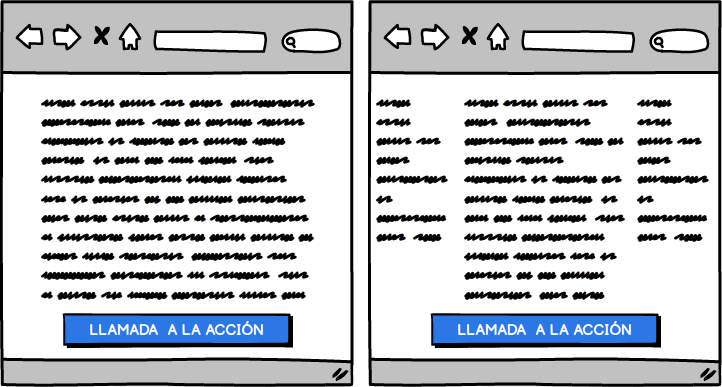
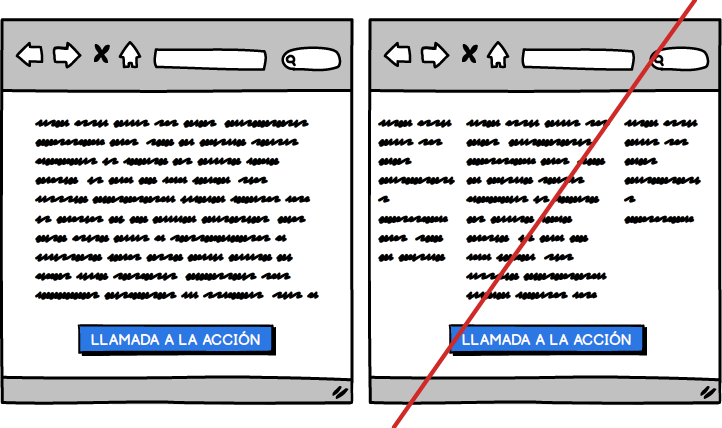
CONTENIDOS: nuevo post y refactorización de ilustraciones

diff --git a/index.html b/index.html
@@ -1,6 +1,6 @@
 ---
 layout: page
-description: "Dirección de proyectos digitales y consultoría tecnológica"
+description: "Consultor y director de proyectos digitales"
 ---
 
 {% for post in paginator.posts %}
